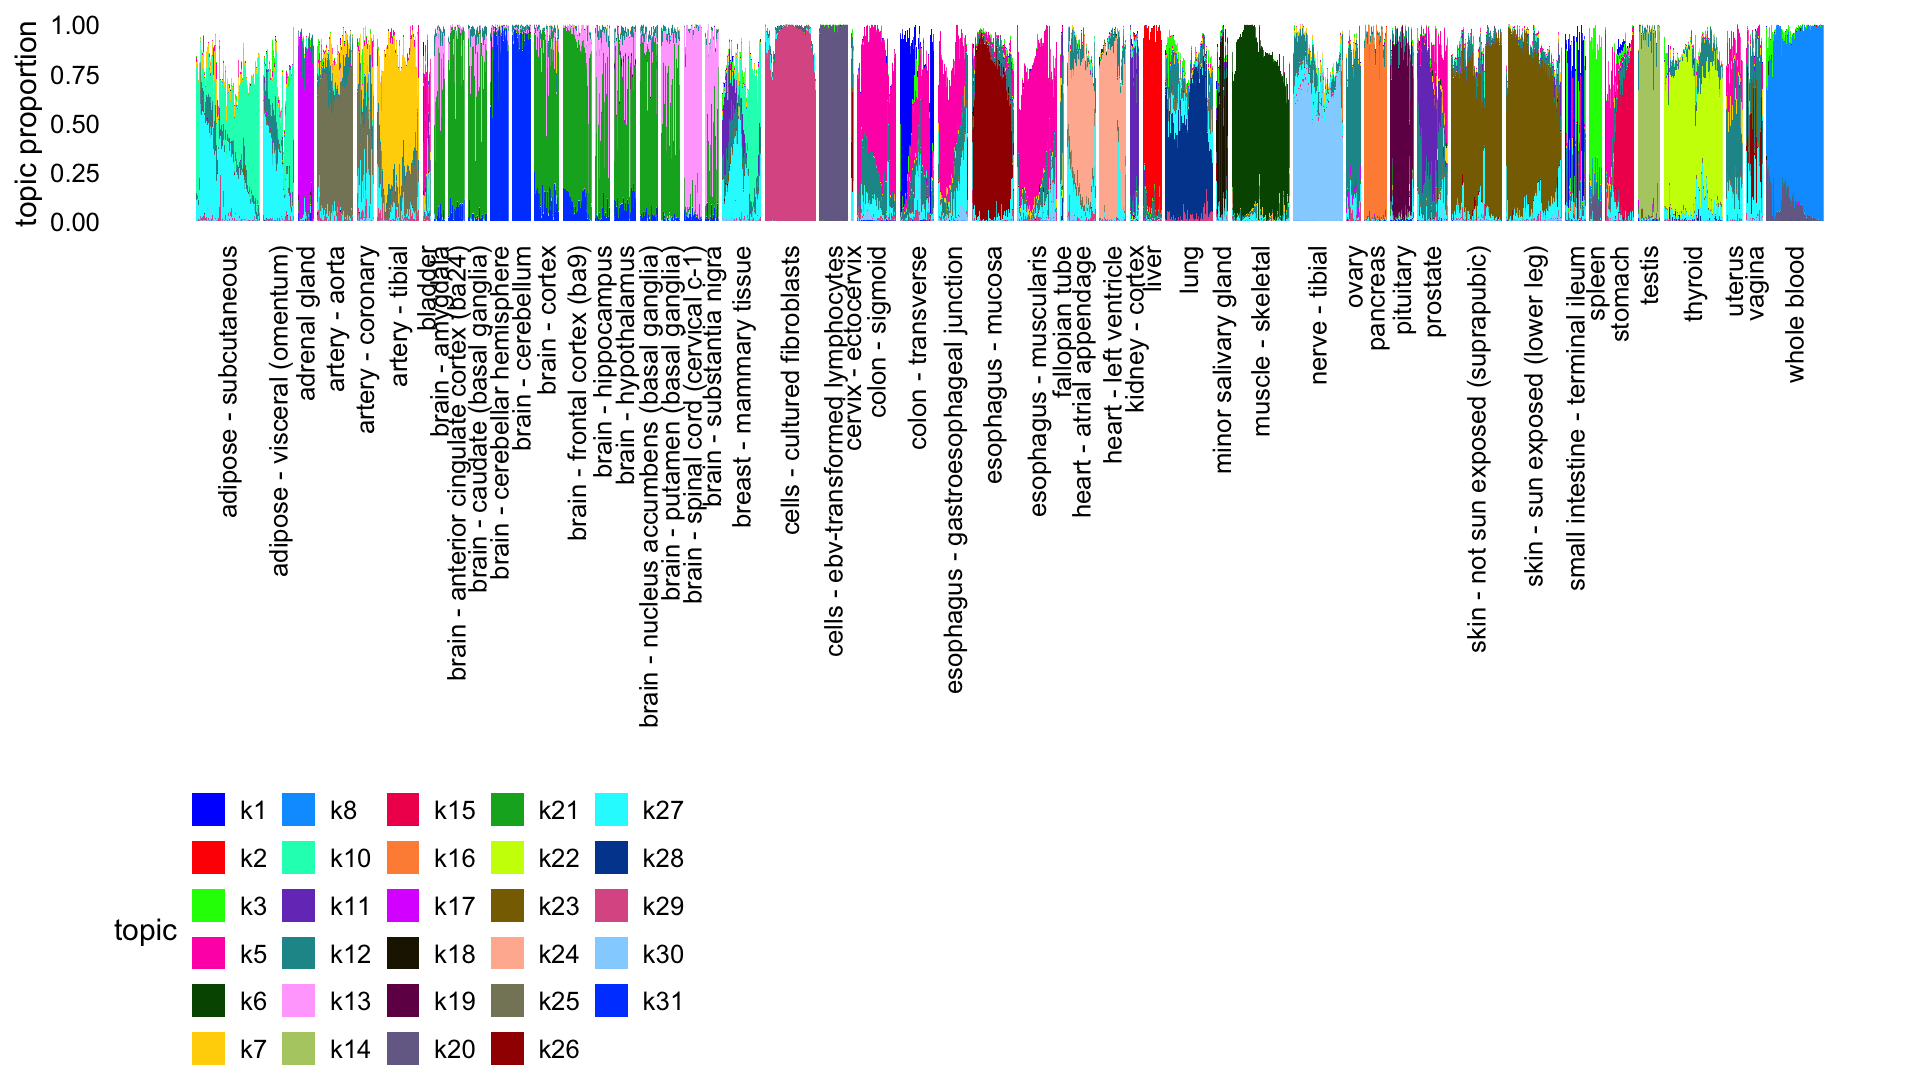
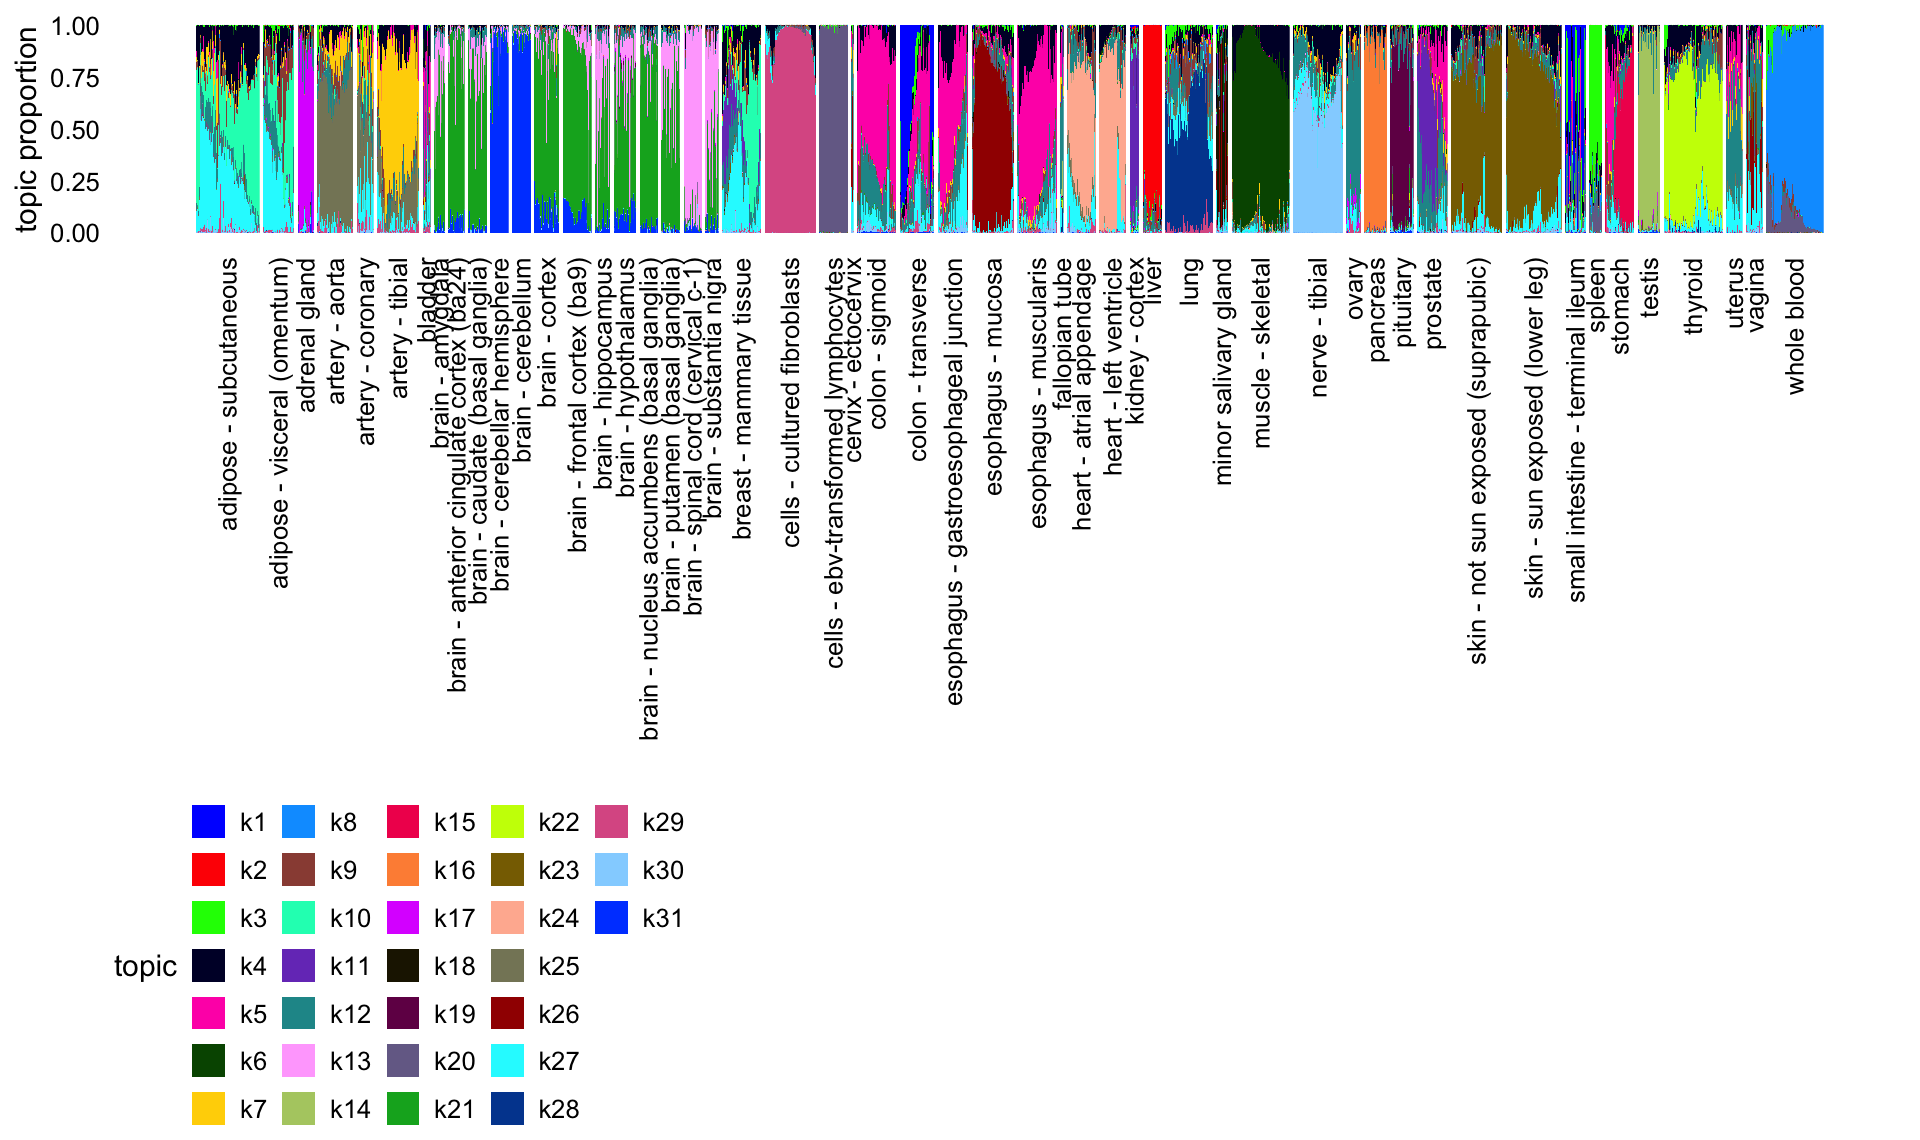
Made a few improvements to the gtex_topics analysis.

diff --git a/docs/gtex_topics.html b/docs/gtex_topics.html
@@ -433,15 +433,15 @@ project makes it easier to run your code on other machines.</p>
 <div class="panel panel-default">
 <div class="panel-heading">
 <p class="panel-title">
-<a data-toggle="collapse" data-parent="#workflowr-checks" href="#strongRepositoryversionstrongahrefhttpsgithubcomstephenslabsinglecelljamboreetree317448e022d16dac48c917cd04c9c144408a9f2btargetblank317448ea">
+<a data-toggle="collapse" data-parent="#workflowr-checks" href="#strongRepositoryversionstrongahrefhttpsgithubcomstephenslabsinglecelljamboreetree021150aa60d9d59da97fd09397a4d33b0db3fb78targetblank021150aa">
 <span class="glyphicon glyphicon-ok text-success"
 aria-hidden="true"></span> <strong>Repository version:</strong>
-<a href="https://github.com/stephenslab/single-cell-jamboree/tree/317448e022d16dac48c917cd04c9c144408a9f2b" target="_blank">317448e</a>
+<a href="https://github.com/stephenslab/single-cell-jamboree/tree/021150aa60d9d59da97fd09397a4d33b0db3fb78" target="_blank">021150a</a>
 </a>
 </p>
 </div>
 <div
[2 lines of base64/hex data omitted]
 class="panel-collapse collapse">
 <div class="panel-body">
 <p>
@@ -451,7 +451,7 @@ reproducibility.
 </p>
 <p>
 The results in this page were generated with repository version
-<a href="https://github.com/stephenslab/single-cell-jamboree/tree/317448e022d16dac48c917cd04c9c144408a9f2b" target="_blank">317448e</a>.
+<a href="https://github.com/stephenslab/single-cell-jamboree/tree/021150aa60d9d59da97fd09397a4d33b0db3fb78" target="_blank">021150a</a>.
 See the <em>Past versions</em> tab to see a history of the changes made
 to the R Markdown and HTML files.
 </p>
@@ -531,6 +531,40 @@ Message
 Rmd
 </td>
 <td>
+<a href="https://github.com/stephenslab/single-cell-jamboree/blob/021150aa60d9d59da97fd09397a4d33b0db3fb78/analysis/gtex_topics.Rmd" target="_blank">021150a</a>
+</td>
+<td>
+Peter Carbonetto
+</td>
+<td>
+2026-05-31
+</td>
+<td>
+wflow_publish("gtex_topics.Rmd", verbose = T, view = F)
+</td>
+</tr>
+<tr>
+<td>
+html
+</td>
+<td>
+<a href="https://rawcdn.githack.com/stephenslab/single-cell-jamboree/134eee5d8cd39a4f6e5bc37d52b216905686fbda/docs/gtex_topics.html" target="_blank">134eee5</a>
+</td>
+<td>
+Peter Carbonetto
+</td>
+<td>
+2026-05-31
+</td>
+<td>
+Added a structure plot to the gtex_topics analysis.
+</td>
+</tr>
+<tr>
+<td>
+Rmd
+</td>
+<td>
 <a href="https://github.com/stephenslab/single-cell-jamboree/blob/317448e022d16dac48c917cd04c9c144408a9f2b/analysis/gtex_topics.Rmd" target="_blank">317448e</a>
 </td>
 <td>
@@ -584,7 +618,8 @@ wflow_publish("index.Rmd")
 </div>
 </div>
 </div>
-<p>ADD TEXT HERE.</p>
+<p>This analysis is a brief examination of the topic modeling results
+generated by the <code>compute_gtex_factors.R</code> script.</p>
 <p>Load the packages needed for this analysis:</p>
 <pre class="r"><code>library(fastTopics)
 library(ggplot2)
@@ -593,17 +628,58 @@ library(cowplot)</code></pre>
 <pre class="r"><code>set.seed(1)</code></pre>
 <p>Load the GTEx meta data:</p>
 <pre class="r"><code>load(&quot;../data/gtex_meta_data_v11.RData&quot;)</code></pre>
-<p>Load the results of the topic modeling analysis, with <span
+<p>Load the results of the topic modeling analysis with <span
 class="math inline">\(K = 31\)</span> topics:</p>
 <pre class="r"><code>load(&quot;../output/gtex_tm_k=31.RData&quot;)</code></pre>
-<p>Structure plot:</p>
+<p>A quick inspection of the topic proportions grouped by tissue shows
+that indeed much of the tissue-related structure in expression is
+captured by the topics. This includes closely related tissues being
+captured by the same topic or combinations of the same topics (e.g.,
+artery, various brain regions).</p>
 <pre class="r"><code>k &lt;- ncol(tm$L)
-topics_to_plot &lt;- setdiff(1:k,c(4,9))
+topics_to_plot &lt;- 1:k
 tissues &lt;- factor(sample_info$SMTSD)
 levels(tissues) &lt;- tolower(levels(tissues))
 structure_plot(tm,topics = topics_to_plot,gap = 5,grouping = tissues) +
   theme(axis.text.x = element_text(angle = 90,hjust = 1,vjust = 0.5))</code></pre>
 <p><img src="figure/gtex_topics.Rmd/structure-plot-1.png" width="960" style="display: block; margin: auto;" /></p>
+<p>
+<button type="button" class="btn btn-default btn-xs btn-workflowr btn-workflowr-fig" data-toggle="collapse" data-target="#fig-structure-plot-1">
+Past versions of structure-plot-1.png
+</button>
+</p>
+<div id="fig-structure-plot-1" class="collapse">
+<div class="table-responsive">
+<table class="table table-condensed table-hover">
+<thead>
+<tr>
+<th>
+Version
+</th>
+<th>
+Author
+</th>
+<th>
+Date
+</th>
+</tr>
+</thead>
+<tbody>
+<tr>
+<td>
+<a href="https://github.com/stephenslab/single-cell-jamboree/blob/134eee5d8cd39a4f6e5bc37d52b216905686fbda/docs/figure/gtex_topics.Rmd/structure-plot-1.png" target="_blank">134eee5</a>
+</td>
+<td>
+Peter Carbonetto
+</td>
+<td>
+2026-05-31
+</td>
+</tr>
+</tbody>
+</table>
+</div>
+</div>
 <br>
 <p>
 <button type="button" class="btn btn-default btn-workflowr btn-workflowr-sessioninfo" data-toggle="collapse" data-target="#workflowr-sessioninfo" style="display: block;">
